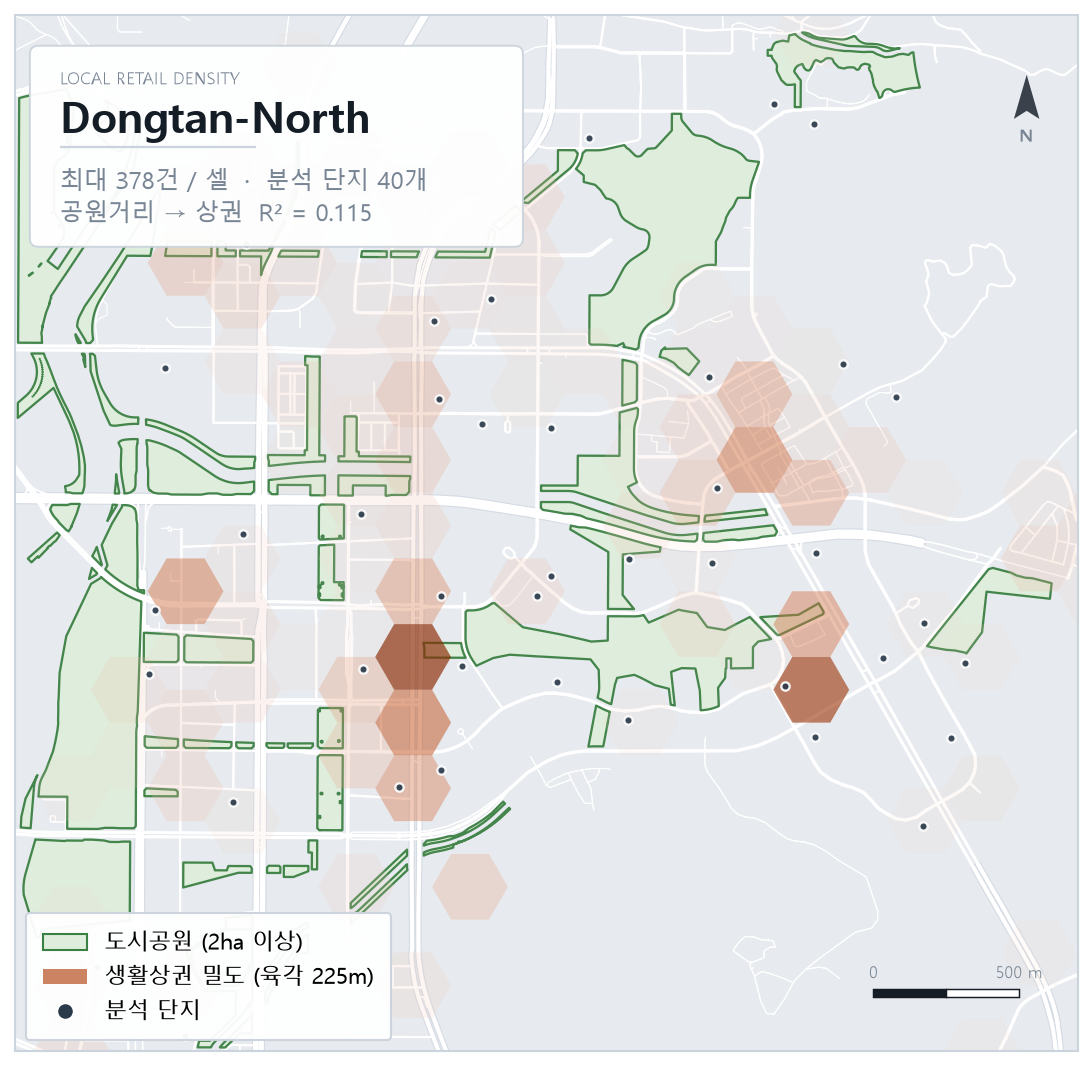
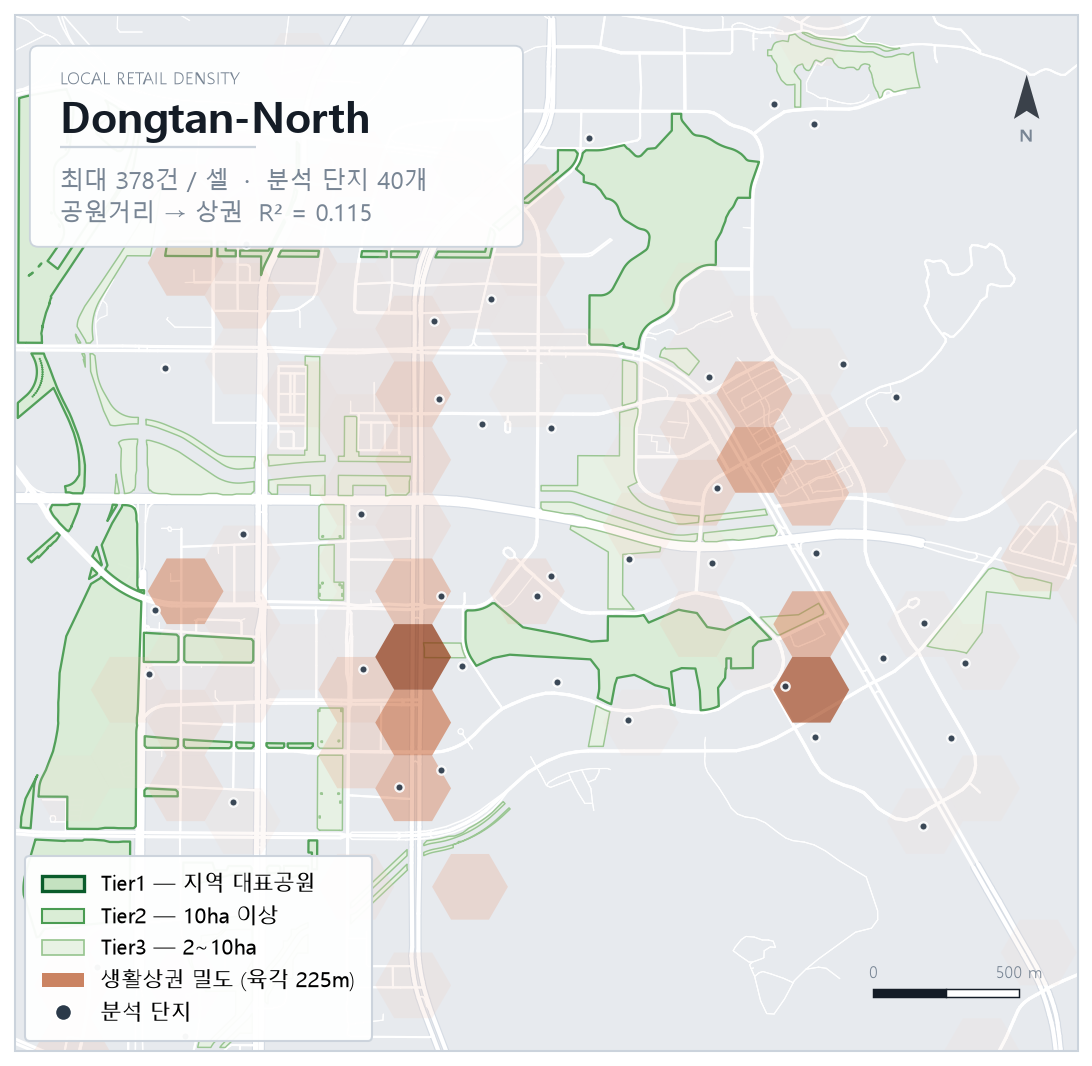
자료 출처 명시 · 상권 지도에 공원 위계 표시
· 부록 C를 「자료 출처와 구축 방법론」으로 확장하고 8개 자료의 출처·기준
  시점·범위를 표로 명시했다. 지하철역은 공공 공간정보 목록이 신설 노선을
  반영하지 못해 카카오맵에서 직접 조사한 뒤 좌표를 변환했다는 점을 밝힌다.
· 상권 밀도 지도에서 공원을 규모 위계별로 구분한다. Tier1은 진한 윤곽으로
  두어 대표공원 주변에 상권이 붙어 있는지가 지역을 가르는 요인임이
  눈으로 읽히게 했다. 대표공원이 없는 동탄2 북부에는 진한 윤곽이 없다.
  위계 판정은 bbox로 자르기 전에 수행해 본 분석과 동일한 결과를 보장한다.

diff --git a/content/reports/park-capitalization.ts b/content/reports/park-capitalization.ts
@@ -361,6 +361,57 @@ export const parkCapSample = [
   { key: "uj" as RegionKey, label: "운정", rows: [["단지", "26개"], ["집계 거래", "303건"], ["평균 단가", "501만원/㎡"], ["최상위 위계 거리", "720m"], ["통합 최근접", "146m"]] },
 ]
 
+export const parkCapSources = [
+  {
+    kind: "종속변수",
+    name: "아파트 매매 실거래",
+    org: "국토교통부 실거래가 공개시스템",
+    detail: "계약일 2025-01-01 ~ 2025-06-30 · 수원시 영통구, 용인시 기흥구·수지구, 화성시 동탄구, 파주시 5개 시군구 · 지번주소 기준. 계약일 기준이며 해제 신고분은 제외했다.",
+  },
+  {
+    kind: "공원",
+    name: "도시계획시설(공원) 결정경계",
+    org: "국토교통부 LSMD_CONT_UQ162 · 국가공간정보포털",
+    detail: "경기도(41) 2026년 8월 고시분 · 원좌표계 EPSG:5174. 관리번호 대분류 중 UQT2(공원)만 채택하고 UQT3(녹지)·UQT1(광장)은 제외했다.",
+  },
+  {
+    kind: "단지 특성",
+    name: "공동주택 단지 기본정보",
+    org: "공동주택관리정보시스템(K-apt)",
+    detail: "2026-06-26 내려받음 · 세대수, 총주차대수, 사용승인일, 시공사.",
+  },
+  {
+    kind: "상권",
+    name: "상가(상권)정보",
+    org: "소상공인시장진흥공단",
+    detail: "2025-06-30 및 2026-03-31 공표분 · 소매·음식·보건 업종만 생활상권 POI로 사용했다.",
+  },
+  {
+    kind: "입지",
+    name: "지하철역 위치",
+    org: "카카오맵에서 직접 조사",
+    detail: "공공 공간정보로 배포되는 목록이 네 지역의 신설 노선을 반영하지 못해, 운영 중인 역사를 직접 조사한 뒤 카카오 로컬 API로 좌표를 변환했다.",
+  },
+  {
+    kind: "좌표",
+    name: "아파트 단지 좌표",
+    org: "카카오 로컬 API 지오코딩",
+    detail: "도로명·지번주소 기반. 미매칭 건은 카카오맵에서 수작업으로 보정했다.",
+  },
+  {
+    kind: "도로망",
+    name: "OpenStreetMap 도로·보행망",
+    org: "OpenStreetMap (Geofabrik south-korea)",
+    detail: "보행 실측거리 검증(부록 B)과 지도 배경에 사용했다.",
+  },
+  {
+    kind: "보조",
+    name: "공동주택 단지 연계정보",
+    org: "국토교통부 APHUS_HSMP_CNTC_INFO · 국가공간정보포털",
+    detail: "표본이 지역 내 단지를 얼마나 포괄하는지 검증하는 데만 썼고 회귀에는 투입하지 않았다.",
+  },
+]
+
 export const parkCapMethodology = [
   {
     title: "① 공원 데이터 — 공식 도시계획시설 결정경계",
@@ -425,7 +476,7 @@ export const parkCapLimits = [
 
 export const parkCapFooter = {
   method:
-    "종속변수 층 보정 ln(만원/㎡) · 분석단위 단지(단지당 1개 평형, 84형 우선) · 공원 변수 1개(최상위 위계 경계거리) · 거리 규약 공원 폴리곤 경계까지 최단거리 · Tier1은 우월비 1.3배 하한 적용 · Tier3 거리와 반경 내 공원면적은 검토 후 미채택 · 계약년월 고정효과 미사용 · 이분산-로버스트(HC1) 표준오차 · 공간가중치 KNN k=3/5/8 및 거리 500m/1,000m 5개 사양 · 좌표계 EPSG:5179 · Chow F=8.48(df 32/78, p<0.001) · 매개분석 백분위 부트스트랩 5,000회.",
+    "자료 출처는 §부록 C 참조 · 좌표계 EPSG:5179 · 종속변수 층 보정 ln(만원/㎡) · 분석단위 단지(단지당 1개 평형, 84형 우선) · 공원 변수 1개(최상위 위계 경계거리) · 거리 규약 공원 폴리곤 경계까지 최단거리 · Tier1은 우월비 1.3배 하한 적용 · Tier3 거리와 반경 내 공원면적은 검토 후 미채택 · 계약년월 고정효과 미사용 · 이분산-로버스트(HC1) 표준오차 · 공간가중치 KNN k=3/5/8 및 거리 500m/1,000m 5개 사양 · 좌표계 EPSG:5179 · Chow F=8.48(df 32/78, p<0.001) · 매개분석 백분위 부트스트랩 5,000회.",
   files:
     "06_01_build_complex_dataset.py · 06_02_hedonic_complex.py · 06_05_replication_mediation.py · 06_06_tier1_absolute.py · 06_07_weighted_index.py · 06_08_aggregate_access.py · 06_09_tier3_contribution.py · 06_10_reduced_spec.py · 논문/_deck_maps.py · 논문/_deck_maps_commerce.py · 논문/_map_style.py · 06_01_complex_single_dom.xlsx · 06_02_regression.xlsx · 06_02_spatial.xlsx · 06_10_reduced_spec.xlsx",
 }

diff --git a/components/reports/park-capitalization.tsx b/components/reports/park-capitalization.tsx
@@ -19,6 +19,7 @@ import {
   parkCapRejected,
   parkCapReplicationTable,
   parkCapSample,
+  parkCapSources,
   parkCapSpatialTable,
   parkCapSpecContrastTable,
   parkCapTierRuleTable,
@@ -178,7 +179,8 @@ export function ParkCapitalizationReport() {
       {/* 01 자료와 기초통계 */}
       <SectionTitle n="01">자료와 기초통계</SectionTitle>
       <p className="mt-3 max-w-3xl text-[0.92rem] leading-relaxed">
-        2025년 상반기 국토교통부 아파트 실거래 2,740건을 단지 단위 121개로 집계했다. 평형을 국민
+        2025년 상반기 국토교통부 실거래가 공개시스템의 아파트 매매 2,740건을 단지 단위 121개로
+        집계했다(자료 출처 일람은 부록 C). 평형을 국민
         주택규모 두 구간으로 한정하고, 단지×평형 내부 상·하위 5%를 절사한 뒤, 지역×평형별 층
         계수로 기준층 가격에 환산해 평균했다. 마지막으로{" "}
         <strong>단지당 한 평형만 남긴다</strong> — 84형을 기본으로 하고 거래가 하한에 못 미치는 7개
@@ -343,9 +345,12 @@ export function ParkCapitalizationReport() {
       </p>
       <p className="mt-3 max-w-3xl text-[0.92rem] leading-relaxed">
         그 차이는 공간 배치에서 그대로 드러난다. 아래 지도는 같은 배경 규약에 생활상권 POI 밀도를
-        육각 그리드(폭 225m)로 얹고 공원은 윤곽선만 남긴 것이다. 동탄2 남부는 상권 밀집지가 공원
-        회랑을 따라 늘어서 있는 반면, 운정은 호수공원 주변이 비어 있고 상권이 지구 외곽에 별도로
-        형성되어 있다.
+        육각 그리드(폭 225m)로 얹고, 공원은 규모 위계별로 구분해 윤곽선으로 남긴 것이다 — 진한
+        윤곽이 <strong>Tier1(지역 대표공원)</strong>이다. 대표공원 조건을 충족하는 공원이 없는
+        동탄2 북부에는 진한 윤곽이 나타나지 않는다.{" "}
+        <strong>Tier1 주변에 상권이 붙어 있는지가 지역을 가른다.</strong> 동탄2 남부는 동탄호수공원
+        가장자리에 상권 밀집 셀이 직접 닿아 있고 상권 밀집지가 공원 회랑을 따라 늘어서 있는 반면,
+        운정은 운정호수공원 주변이 비어 있고 상권이 지구 외곽에 별도로 형성되어 있다.
       </p>
       <MapLightbox maps={parkCapCommerceMaps} />
       <p className="mt-3 max-w-3xl text-[0.88rem] leading-relaxed text-muted-foreground">
@@ -454,8 +459,34 @@ export function ParkCapitalizationReport() {
       <Table spec={parkCapCircuityTable} />
 
       {/* 부록 C */}
-      <SectionTitle n="부록 C">데이터 구축 방법론</SectionTitle>
-      <div className="mt-5 flex flex-col gap-4">
+      <SectionTitle n="부록 C">자료 출처와 구축 방법론</SectionTitle>
+      <p className="mt-3 max-w-3xl text-[0.92rem] leading-relaxed">
+        사용한 자료는 모두 공개 자료이며, 좌표계는 EPSG:5179(UTM-K)로 통일했다.
+      </p>
+      <div className="mt-5 overflow-hidden rounded border border-border bg-card">
+        {parkCapSources.map((s, i) => (
+          <div
+            key={s.name}
+            className={`grid grid-cols-1 gap-1 px-4 py-3.5 sm:grid-cols-[5.5rem_1fr] sm:gap-4 ${
+              i === 0 ? "" : "border-t border-border"
+            }`}
+          >
+            <span className="font-mono text-[0.66rem] uppercase tracking-[0.1em] text-muted-foreground">
+              {s.kind}
+            </span>
+            <div>
+              <strong className="text-[0.88rem]">{s.name}</strong>
+              <span className="ml-2 text-[0.8rem] text-accent">{s.org}</span>
+              <p className="mt-1 text-[0.82rem] leading-relaxed text-muted-foreground">
+                {s.detail}
+              </p>
+            </div>
+          </div>
+        ))}
+      </div>
+
+      <h4 className="mt-8 text-[0.95rem] font-bold">구축 방법</h4>
+      <div className="mt-4 flex flex-col gap-4">
         {parkCapMethodology.map((m) => (
           <div key={m.title} className="rounded border border-border bg-card px-4 py-3.5">
             <strong className="block text-[0.88rem]">{m.title}</strong>
